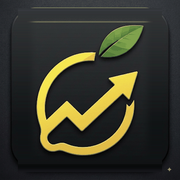
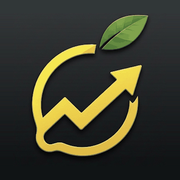
Add files via upload

diff --git a/index.html b/index.html
@@ -312,10 +312,28 @@ body.a-nav .nav { display: flex; }
   gap: 22px;
   z-index: 100;
 }
+/* LE CONTOUR DE LA VIGNETTE DU SPLASH.
+   ---------------------------------------------------------------------------
+   Il se lisait comme un autocollant mal decoupe, et Olivier l'a signale.
+
+   LA CAUSE, MESUREE. Le PNG ne contient pas que sa tuile : il porte autour
+   d'elle un POURTOUR OPAQUE de 6 %, gris bleute. Sur la ligne mediane la
+   luminance vaut 34 a 42 jusqu'a x=30, puis retombe a 28 dans la tuile. Le fond
+   du splash, lui, est a 15. Ce pourtour ressortait donc nettement, et le
+   `border-radius: 26px` le coupait A UN RAYON QUI N'EST PAS CELUI DE LA TUILE
+   dessinee dedans : il restait un croissant de gris clair dans chaque angle.
+
+   LA CORRECTION. On recadre le pourtour a l'affichage — 6,5 % de chaque cote,
+   soit 33 px sur 512, juste au-dela du liseré sombre qui borde la tuile — et on
+   arrondit sur la tuile elle-meme. La boite est agrandie d'autant pour que la
+   vignette garde sa taille vue : 120 px de boite pour 104 px visibles.
+
+   L'IMAGE N'EST PAS TOUCHEE. Elle sert aussi d'icone au manifeste, et le splash
+   doit continuer d'afficher le logo avec son nom. */
 .splash-logo {
-  width: 104px;
-  height: 104px;
-  border-radius: 26px;
+  width: 120px;
+  height: 120px;
+  clip-path: inset(6.5% round 20%);
   display: block;
 }
 .splash-mot {
